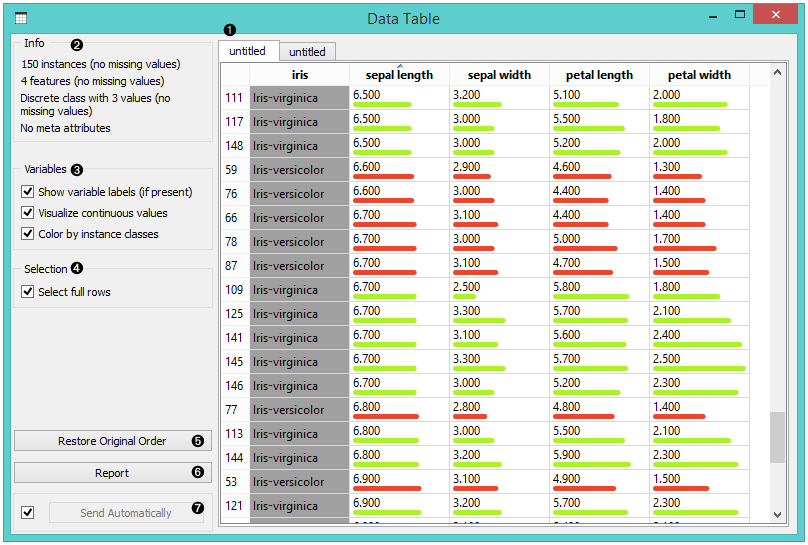
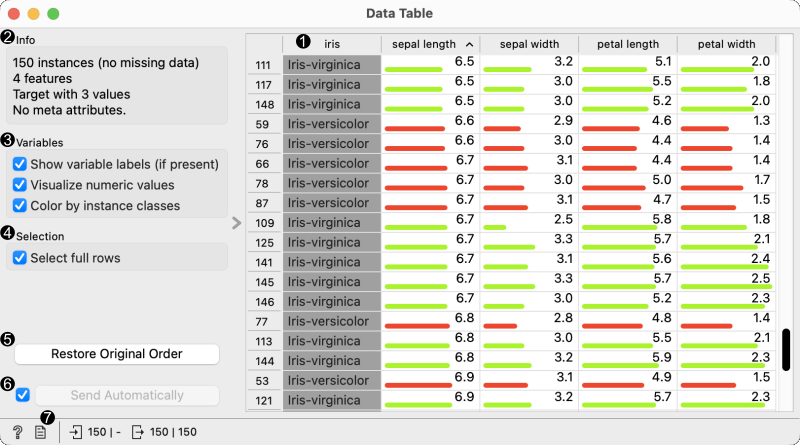
Updated Data Table documentation

diff --git a/doc/visual-programming/source/widgets/data/datatable.md b/doc/visual-programming/source/widgets/data/datatable.md
@@ -6,36 +6,39 @@ Displays attribute-value data in a spreadsheet.
 **Inputs**
 
 - Data: input dataset
+- Data Subset: a subset of the input dataset
 
 **Outputs**
 
 - Selected Data: instances selected from the table
+- Data: the full input dataset
 
-The **Data Table** widget receives one or more datasets in its input and presents them as a spreadsheet. Data instances may be sorted by attribute values. The widget also supports manual selection of data instances.
+The **Data Table** widget can receive a dataset and a data subset on its input and presents them as a spreadsheet. The widget also supports manual selection of data instances. Data
+instances are in rows and their attribute values (features) in columns, which can be used for sorting.  
 
 ![](images/DataTable-stamped.png)
 
-1. The name of the dataset (usually the input data file). Data
-   instances are in rows and their attribute values in columns. In this
+1. The name of the dataset (usually the input data file). In this
    example, the dataset is sorted by the attribute "sepal length".
 2. Info on current dataset size and number and types of attributes
 3. Values of continuous attributes can be visualized with bars; colors
    can be attributed to different classes.
 4. Data instances (rows) can be selected and sent to the widget's output
    channel.
-5. Use the *Restore Original Order* button to reorder data instances after
-   attribute-based sorting.
-6. Produce a report.
-7. While auto-send is on, all changes will be automatically communicated
-   to other widgets. Otherwise, press *Send Selected Rows*.
+5. Clicking the *Restore Original Order* button will reset the original data order that might have changed because of sorting.
+6. While auto-send is on, all changes will be automatically communicated
+   to other widgets. Otherwise, press *Send Selection*.
+7. Produce a report.
 
-Example
--------
+Examples
+--------
 
-We used two [File](../data/file.md) widgets to read the *Iris* and *Glass* dataset (provided in Orange distribution), and send them to the **Data Table** widget.
+In our first example we show how selections work in **Data Table**. First, we send the _iris_ dataset from the **[Datasets](../data/datasets.md)** widget to a **Data Table**. There, we select the first ten data instances and send them to a second **Data Table** widget. The workflow and the two **Data Table** widgets are shown below on the figure.
 
-![](images/DataTable-Schema.png)
+![](images/DataTable-example1.png)
 
-Selected data instances in the first **Data Table** are passed to the second **Data Table**. Notice that we can select which dataset to view (iris or glass). Changing from one dataset to another alters the communicated selection of data instances if *Commit on any change* is selected.
+Since the widget has a _Data Subset_ input, we can use it to inspect selections from upstream processing steps and compare them to the full dataset. In this following example we send the _iris_ dataset to the _Data_ input of **Data Table** and also randomly select data instances using the **[Data Sampler](../data/datasampler.md)** widget. Notice the result in **Data Table**: the selected instances are highlighted in dark grey. 
 
-![](images/DataTable-Example.png)
+![](images/DataTable-example2.png)
+
+One could combine the above examples and could further select subsets in subsequent **Data Table** widgets.
